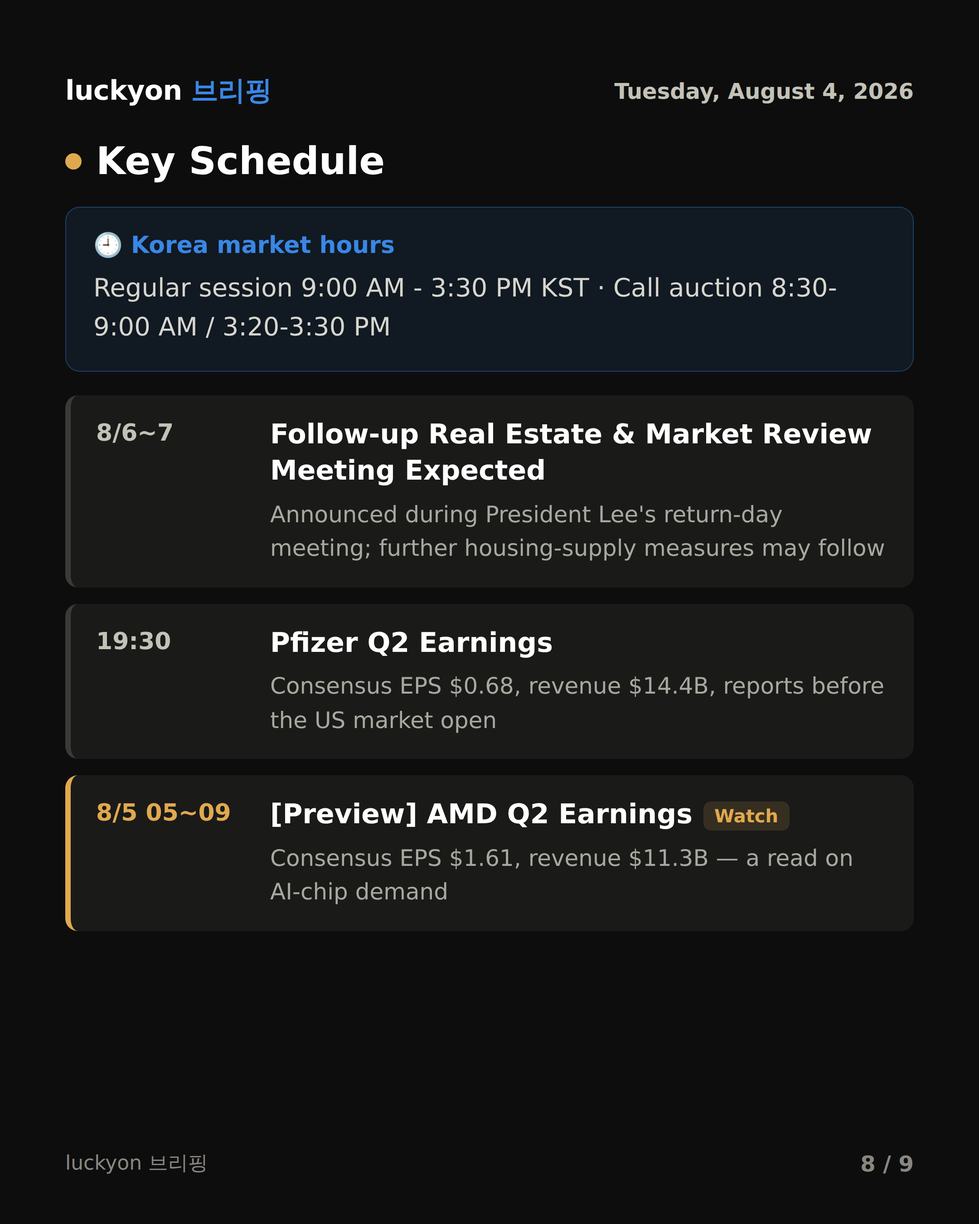
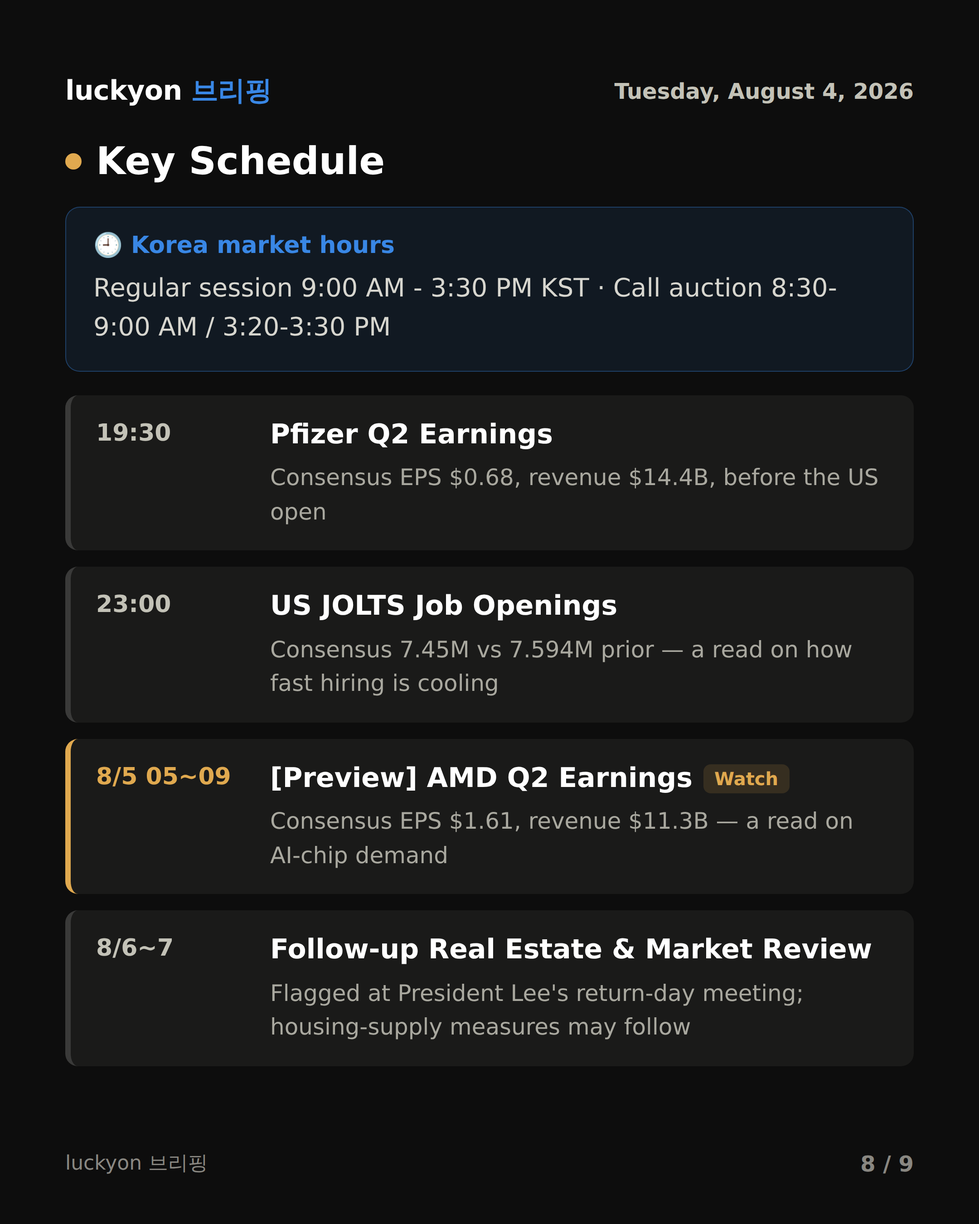
docs: 저녁 세션 대비 절차서 감사 후 불일치 8건 정정
오늘 결정한 내용이 pm 세션에 빠짐없이 적용되도록, 독립 에이전트로
절차서·렌더러·예시 JSON을 교차 감사해 나온 문제를 고친다.

문서 내부 모순
- 3-d 범주 E 가 아직 'sections 3~4장'을 검사하고 있었다. 그대로면
  pm 이 본문 3장만 만들어도 검증을 통과해 9장 결정이 조용히 되돌려진다.
- 범주 A 의 invariant 목록에 stats[].label 이 들어가 있었다. 이건
  번역되는 필드라, 검증 에이전트가 '한글 오염'으로 잡아 label 로
  합치면 렌더러가 못 읽어 라벨이 빈칸이 된다. 목록을 4단계와 일치시키고
  번역 필드는 해당 없음을 명시했다.
- 금통위 항목이 '③ 섹션 첫 항목'을 가리켰는데 ③은 이제 수치 카드라
  문장을 담지 못한다 -> ⑦로 옮겼다.
- 4단계 스키마의 markets 에 value_sub·note_ko/en 이 빠져 있었다.
  그대로 따르면 타일 한 줄 해석이 통째로 사라진다(pm 선물 표기도 note).

pm 세션 대비
- pm 의 ③④⑤가 전부 한국 시장이라 ⑦까지 한국으로 채우면 해외 재료가
  하나도 없게 된다. ⑦을 am·pm 모두 '주요 소식'으로 통일하고(기존 pm
  ⑦은 '오늘의 공시'였다) 공시+아시아·유럽·미 선물을 함께 담는 자리로
  정의했다. 뉴스 검색도 한국/해외 최소 2회로 의무화했다.
- '공시 선별' 항목의 슬롯 번호도 pm ⑤ -> pm ⑦ 로 맞췄다.

코드·문서 동기화
- ROUTINE_OPEN 정규식에 '코스피 개장'·'Kospi Opens' 등이 빠져 있어
  문서 예시와 실제 동작이 달랐다 -> 정규식을 넓혔다.
- render-cards.mjs 헤더 주석이 아직 8장 구성을 설명하고 있었다.
- 검증 에이전트 실행 도구 이름을 세션에 따라 다를 수 있게 일반화했다.

예시 파일: 2026-08-04-am.json 의 schedule 이 3건이라 문서 기준(4~6건)에
못 미쳤다. 오늘 밤 미 JOLTS 를 추가해 4건으로 맞춘다.

diff --git a/ROUTINE_PROMPT.md b/ROUTINE_PROMPT.md
@@ -138,12 +138,14 @@
      | ④ | **섹터별 등락** `type:"bars"` `#e0a94f` — 섹터 ETF 를 0 기준 발산 막대로 | **업종별 등락** `type:"bars"` `#e0a94f` — 주력 15개 업종을 0 기준 발산 막대로 |
      | ⑤ | **실적 · 지표 발표** `type:"stats"` `#3987e5` — 실적·경제지표를 이전치·예상치·실측치 3값으로 (타일 4~6개, `cols:2`) | **거래대금 상위** `type:"rank"` `#3987e5` — 순위 표 + 거래대금 구성비 띠 |
      | ⑥ | **AI · 반도체 기술** (`type` 없음) `#9085e9` — AI 소식 카드 (아래 참고) | **AI · 반도체 기술** (`type` 없음) `#9085e9` — 같음 |
-     | ⑦ | **주요 소식** (`type` 없음) `#5aa469` — 그 시간대에 나온 나머지 주요 소식 (아래 참고) | **오늘의 공시** (`type` 없음) `#5aa469` — DART 원문, 서술이 필요해 글 카드로 |
+     | ⑦ | **주요 소식** (`type` 없음) `#5aa469` — 그 시간대에 나온 나머지 주요 소식 (아래 참고) | **주요 소식** (`type` 없음) `#5aa469` — 같음. pm 은 보통 DART 공시가 주재료이고, 여기에 아시아 마감·유가·환율·미 선물 등을 함께 담는다 |
 
      - **⑥⑦만 글 카드다.** 공시 내용·정책 발표·인물 동정처럼 문장 설명이 필요한 것을 여기에 모은다. ③④⑤는 수치 카드다.
      - 그날 재료가 표의 성격과 안 맞으면 바꿔도 된다 (예: 공시가 압도적인 날은 ⑤를 글 카드로). **다만 수치 카드가 ③④⑤ 세 장 중 최소 두 장은 되어야 한다.**
      - **⑥ AI 카드 (2026-08-04 신설)**: 이 계정은 브랜드에서 "경제와 AI"를 약속하므로 AI 축이 매 회차 한 장 있어야 한다. **주가 나열이 아니라 AI 자체의 소식을 담는다** — 모델·툴 출시와 버전, HBM·GPU·TPU 등 반도체 기술과 표준, AI 인프라·데이터센터 투자, AI 규제·정책. AI 종목 등락만 순위로 늘어놓는 카드는 카드 ③④와 내용이 겹치고 AI에 대해 아무것도 말해주지 않으므로 만들지 않는다(2026-08-04 시안에서 실제로 이 문제가 확인됐다). 뉴스 기반이라 **3-d 검증의 B(정확성)·C(최신성)를 특히 엄격히 적용한다** — 발표 주체를 밝히고(단정 금지), 애널리스트 전망은 기관명을 함께 적고, 보도일을 확인한다.
      - **⑦ 주요 소식 (2026-08-04 변경)**: 제목을 지역으로 못박지 않는다. 예전에는 "한국 · 아시아"였는데, 제목이 곧 수집 범위를 가둬 그 시간대의 다른 좋은 재료를 놓치게 만들었다. **그 세션이 커버하는 시간대에 나온 주요 소식을 지역 구분 없이 모으되, 한국을 우선한다.** (am 이면 전날 21:00 이후 밤사이~오늘 아침, pm 이면 오늘 08:00 이후 — 44행 표의 커버 범위와 같다.) 지표 발표는 이전치·예상치·실측치를 본문에 함께 적는다.
+       - **이 카드를 채우기 전에 반드시 그 시간대의 뉴스를 실제로 검색한다.** 한국 재료만 모아 놓고 "그 시간대엔 이 정도뿐이었다"고 넘어가지 않는다 — 2026-08-04 am 세션이 미국 밤사이 뉴스를 아예 검색하지 않은 채 한국 항목만 넣었고, 그 결과 **그날 밤의 최대 재료(트럼프의 이란 공격 계획 취소)가 브리핑 전체에서 빠졌다.** 유가 5%대 급락과 3대 지수 동반 상승이 모두 거기서 나왔는데 결과만 싣고 원인을 뺀 셈이었다. **최소 두 번은 검색한다** — 한 번은 한국 쪽(`"오늘 증시 마감"`·`"코스피 마감"`), 한 번은 그 세션의 해외 시간대(am 이면 `"간밤 뉴욕증시"`, pm 이면 `"유럽 증시"`·`"미국 선물"`·`"중동"` 등). `mcp__PlayMCP__NaverSearch-search_news` 에 `sort:"date"` 로 훑고, 여러 매체가 반복해 언급하는 그날의 동인을 찾는다. **pm 은 특히 주의한다** — ③④⑤가 모두 한국 시장이라 ⑦까지 한국으로 채우면 브리핑 전체에 해외 재료가 없어진다. 44행 커버 범위표대로 pm 의 ⑦ 은 DART 공시 + 아시아·중동·유럽 마감 + 미 프리마켓/선물을 함께 담는 자리다.
+       - **시장을 움직인 원인은 결과보다 먼저 싣는다.** 시장 카드(②)의 타일이 어떤 사건 때문에 움직였다면, 그 사건이 본문 어딘가에 반드시 있어야 한다. 타일에 결과(유가 ▼5.46%)만 있고 원인(공격 취소 발표)이 어느 카드에도 없으면 독자는 "왜?"에 답을 못 얻는다.
 
    - **섹션 카드 유형 (`type`) — 수치 중심 섹션은 문장 대신 데이터 카드로 그린다.** (2026-08-03 `render-cards.mjs` 개편, `f076f26`) `sections[].type` 을 지정하면 `render-cards.mjs` 가 아래 세 가지 중 하나로 그리고, **`type` 을 아예 안 쓰면 기존 글 카드(`items` 배열, headline/body/src/time)** 로 그린다 — 서술형 섹션(공시 내용, 인물 동정, 정책 발표처럼 문장 설명이 필요한 항목)은 `type` 없이 `items` 그대로 쓰면 된다. 한 세션의 `sections` 5장은 각각 독립적으로 타입을 고른다 — 전부 같은 타입일 필요 없다.
 
@@ -156,7 +158,7 @@
 
      - **`stats` 의 `cols`**: `1` 이면 가로로 긴 행(라벨·부연 왼쪽, 큰 숫자 오른쪽)을 위에서 아래로 쌓고, `2`(기본값)면 2열 격자로 놓는다. **지수 3개처럼 같은 종류를 순서대로 비교시키는 데이터는 `cols: 1`** 이 읽기 좋다(표처럼 세로로 훑힌다). **성격이 다른 지표를 4~6개 늘어놓을 때는 `cols: 2`.** 타일이 하나뿐이면 자동으로 1열이다.
 
-     공통 필드는 `title_ko/en`, `color`, `note_ko/en` (모든 타입 동일). 예: `am` ③ "미국장 기록"의 섹터 등락(XLK/SMH/XLE)은 `bars` 로, `pm` ③ "코스피·코스닥 기록"은 `stats`(+breadth+flows)로, 거래대금 상위는 `rank` 로 그리는 식이다 (2026-08-03-pm.json 예시 참고). **`type` 을 넣었다고 검증(3-d)이나 "계산된 관찰 최소 1건" 요건이 면제되는 것은 아니다** — 카드 형태만 바뀔 뿐 내용 기준은 동일하다.
+     공통 필드는 `title_ko/en`, `color`, `note_ko/en` (모든 타입 동일). 예: `am` ③ "미국장 기록"은 3대 지수를 `stats`(`cols:1`)로, ④ "섹터별 등락"은 섹터 ETF 를 `bars` 로, `pm` ③ "코스피·코스닥 기록"은 `stats`(+breadth+flows)로, ⑤ "거래대금 상위"는 `rank` 로 그린다 (`content/2026-08-04-am.json`·`content/2026-08-03-pm.json` 예시 참고). **`type` 을 넣었다고 검증(3-d)이나 "계산된 관찰 최소 1건" 요건이 면제되는 것은 아니다** — 카드 형태만 바뀔 뿐 내용 기준은 동일하다.
 
    - **공시·실적 조회 경로** (모두 실동작 확인):
 
@@ -171,8 +173,8 @@
 
    - **각 항목은 반드시 조회한 데이터에서 나와야 한다.** 기사에 적힌 숫자를 옮기지 않는다. `src` 에는 언론사가 아니라 **데이터 출처**를 적는다 (예: `KRX`, `DART`, `美 재무부`, `FMP`, `Yahoo Finance`).
    - **사건성 항목은 1차 발표문을 쓴다.** 금통위·FOMC·고용지표·규제 시행 등은 기사 대신 한국은행·연준·통계청·집행위의 **발표 원문**을 근거로 삼는다. 이러면 "누가 주장했는지"가 흐려지지 않는다.
-   - **한국은행 기준금리 결정(금통위)은 절대 놓치지 않는다.** 개최일(연 8회, 통상 1·2·4·5·7·8·10·11월)에 해당 세션이 발행되면 결과(동결/인상/인하, 표결, 배경)를 ③ 섹션 첫 항목으로 반드시 넣는다.
-   - **공시 선별 (pm ⑤)**: DART 는 하루 코스피만 200건이 넘고 대부분 정기·형식 공시다. **시장에 의미 있는 유형만** 고른다 — 단일판매·공급계약체결, 유상증자/전환사채, 자기주식 취득·처분, 최대주주 변경, 대량보유상황보고(5% 룰), 매출액·손익구조 30% 이상 변동, 생산중단, 소송. 정기보고서·기재정정·임원변경 등은 넣지 않는다. 금액이 큰 순, 시총이 큰 기업 순으로 본다.
+   - **한국은행 기준금리 결정(금통위)은 절대 놓치지 않는다.** 개최일(연 8회, 통상 1·2·4·5·7·8·10·11월)에 해당 세션이 발행되면 결과(동결/인상/인하, 표결, 배경)를 ⑦ '주요 소식' 첫 항목으로 반드시 넣는다 (③ 은 수치 카드라 문장 항목을 담지 못한다).
+   - **공시 선별 (pm ⑦)**: DART 는 하루 코스피만 200건이 넘고 대부분 정기·형식 공시다. **시장에 의미 있는 유형만** 고른다 — 단일판매·공급계약체결, 유상증자/전환사채, 자기주식 취득·처분, 최대주주 변경, 대량보유상황보고(5% 룰), 매출액·손익구조 30% 이상 변동, 생산중단, 소송. 정기보고서·기재정정·임원변경 등은 넣지 않는다. 금액이 큰 순, 시총이 큰 기업 순으로 본다.
    - **pm 세션은 먼저 `content/<DATE>-am.json` 을 읽고** 아침에 이미 다룬 항목은 제외한다. (파일이 없으면 `content/` 의 가장 최근 파일을 참고하되, 없는 것 때문에 중단하지 않는다.)
    - 각 항목은 결론부터 1~2문장으로, 한국어와 영어 두 버전을 모두 작성한다.
    - **재료가 부족한 날은 아래 예비 지표를 순서대로 투입한다.** 그날의 1차 재료가 먼저이고, 모자라는 만큼만 위에서부터 가져다 쓴다. 전부 데이터에서 바로 나오는 것들이라 어느 날이든 반드시 채울 수 있다.
@@ -296,11 +298,11 @@
 
    **기록 기반으로 바뀌면서 검증의 성격도 바뀌었다.** 예전에는 "기사 원문과 대조"였지만, 이제 항목 대부분은 우리가 직접 계산한 값이라 **대조할 원문이 없다.** 따라서 검증 에이전트에게 **원본 데이터를 다시 조회해 독립적으로 재계산**시킨다 — "이 값이 맞는지 기사에서 확인해라"가 아니라 "같은 소스에서 다시 뽑아 같은 숫자가 나오는지 확인해라"로 지시한다. 계산이 들어간 항목("N일 연속", "N개월래 최고", "올해 N번째")은 특히 기간·기준을 명시해 재계산시킨다.
 
-   3-b에서 추린 본문 항목 전부를 최종 JSON에 넣기 전에, 반드시 **별도의 검증 에이전트**(`Agent` 도구, `subagent_type: general-purpose` 또는 `Explore`, `run_in_background: false`로 결과를 받고 이어서 진행)를 최소 1개 띄워 아래 **다섯 범주**를 점검시킨다. 뉴스를 고른 세션이 스스로 재검토하면 확증편향으로 놓치기 쉽다 — 실제로 2026-07-21 아침 브리핑에서 2주 전(7/7) 발표된 삼성전자 실적 기사를 "7/21 발표"로 잘못 표기한 채 그대로 발행한 사고가 있었다. (이 검증은 세션당 한 번만 하면 ko·en 카드 모두에 적용된다 — 언어별로 따로 돌릴 필요 없다.) **모든 판정은 "지금"(검증을 실행하는 시점 = 발행 직전) 기준으로 한다** — 리서치 당시엔 맞았어도 검증 시점에 이미 틀려졌다면 fail이다.
+   3-b에서 추린 본문 항목 전부를 최종 JSON에 넣기 전에, 반드시 **별도의 검증 에이전트**(그 세션에 로드된 서브에이전트 실행 도구 — `Agent`/`Task` 등, 범용 타입으로, 결과를 받고 이어서 진행)를 최소 1개 띄워 아래 **다섯 범주**를 점검시킨다. 뉴스를 고른 세션이 스스로 재검토하면 확증편향으로 놓치기 쉽다 — 실제로 2026-07-21 아침 브리핑에서 2주 전(7/7) 발표된 삼성전자 실적 기사를 "7/21 발표"로 잘못 표기한 채 그대로 발행한 사고가 있었다. (이 검증은 세션당 한 번만 하면 ko·en 카드 모두에 적용된다 — 언어별로 따로 돌릴 필요 없다.) **모든 판정은 "지금"(검증을 실행하는 시점 = 발행 직전) 기준으로 한다** — 리서치 당시엔 맞았어도 검증 시점에 이미 틀려졌다면 fail이다.
 
    검증 에이전트 프롬프트에 다음을 통째로 넘긴다: `sections`·`markets`·`schedule`·훅 카드 본문(각 항목의 헤드라인/본문/src/time 초안 + 근거 데이터 출처·조회 조건, 계산이 들어갔다면 그 산식) / **① 이 세션이 조회한 econ-calendar·earnings-calendar 원본 이벤트 목록 전체, ② 완성된 JSON 초안 전체(sections 의 각 `type` 포함), ③ 이 절차서의 3-b 표·3-b-2·3-b-3·market_hours 절.** 아래 다섯 범주로 판정해 pass/fail과 사유를 표로 보고하게 한다 — 각 범주는 매 세션 빠짐없이 확인한다(사실 검증·최신성은 사건성 항목이 없는 날도 markets/summary 문구 등에 적용):
 
-   - **A. 문법·맞춤법 (한국어·영어)** — `markets`의 delta·note, `sections`의 headline·body·note, `summary`/훅 카드, `schedule`, caption 을 포함한 **모든 한국어·영어 텍스트**를 대상으로 한다. 한국어는 맞춤법·띄어쓰기(예: "두달래 최고"(X) → "두 달 내 최고"(O), 시장에서 통용되는 표현 우선: "52주 신고가", "20일 이동평균선 상회"), 영어는 철자·문법·관사·시제 오류를 본다. **언어 무관(invariant) 필드**(`markets[].value/delta/label`, `sections[].stats[].value/delta/label`, `sections[].rows[].value`, `schedule[].time` 등 — 4단계 스키마 설명 참고)는 `_ko`/`_en` 구분 없이 그대로 카드에 박히므로, 여기에 한국어 조사·서술형 어미나 영어 단어가 섞이지 않았는지 **별도로** 확인한다 (실제 사고: `stats[].delta` 에 "예상 상회"라는 한국어를 넣어 영문 카드에도 그대로 노출됨 — 2026-08-04 am).
+   - **A. 문법·맞춤법 (한국어·영어)** — `markets`의 delta·note, `sections`의 headline·body·note, `summary`/훅 카드, `schedule`, caption 을 포함한 **모든 한국어·영어 텍스트**를 대상으로 한다. 한국어는 맞춤법·띄어쓰기(예: "두달래 최고"(X) → "두 달 내 최고"(O), 시장에서 통용되는 표현 우선: "52주 신고가", "20일 이동평균선 상회"), 영어는 철자·문법·관사·시제 오류를 본다. **언어 무관(invariant) 필드**(`markets[].label/value/value_sub/delta`, `sections[].items[].src`/`time`, `sections[].stats[].value`/`delta`, `sections[].rows[].value`, `schedule[].time` — 4단계 스키마 설명의 목록과 같다. **`stats[].label_ko/label_en`·`rows[].name_ko/name_en` 은 번역되는 필드이므로 여기 해당하지 않는다** — 여기에 한국어가 있는 것은 정상이니 '오염'으로 잡아내 `label` 로 합치지 않는다. 합치면 렌더러가 못 읽어 라벨이 빈칸이 된다)는 `_ko`/`_en` 구분 없이 그대로 카드에 박히므로, 여기에 한국어 조사·서술형 어미나 영어 단어가 섞이지 않았는지 **별도로** 확인한다 (실제 사고: `stats[].delta` 에 "예상 상회"라는 한국어를 넣어 영문 카드에도 그대로 노출됨 — 2026-08-04 am).
    - **B. 정확성 (사실 검증)** — 사건성 항목(공시·인물 동정·정책 발표 등)이 있을 때 적용한다.
      1. **사실 일치** — 헤드라인·본문의 핵심 수치·인용구가 원문/원자료와 일치하는지. 수치(가격·%·날짜)는 어림값 말고 원문과 자릿수까지 대조한다.
      2. **단정 금지** — 한쪽 당사자의 주장을 양측 합의로 단정하지 않았는지. (2026-08-03 발행분에서 트럼프의 주장을 근거로 "이란과 호르무즈 합의"라고 단정했으나, 이란은 이를 부인하고 오만을 통한 협의만 진행 중이었다.) 주장 주체를 밝혀 `트럼프 "이란과 합의"` 처럼 쓴다.
@@ -309,7 +311,7 @@
      2. **미래형 표현 검증** — "오늘 ~한다/예정" 류 문장이 검증 시점에도 여전히 사실인지.
      3. **선행 인용 금지** — 카드에 적은 수치가 **발행 시점 이후에야 나온 값**이 아닌지. 진행 중인 사건(유가 급락, 지수 급등락 등)은 시간이 갈수록 수치가 커지는데, 나중 시점의 더 극적인 숫자를 끌어다 쓰면 발행 시점 기준으로는 사실이 아니게 된다. (2026-08-03 am 발행분에서 "국제유가 7% 급락"으로 썼으나 발행 시점 낙폭은 4.6~5.7%였고, 6~7%대는 그날 밤 22시 이후에야 나온 수치였다.)
    - **D. 완전성** — "이 문장이 사실인가"가 아니라 "빠진 게 있는가"를 본다. 이 세션이 조회한 `econ-calendar`/`earnings-calendar` 원본(전체 이벤트 목록)을 카드에 실제로 반영한 항목과 대조해, `impact: HIGH`(또는 `MEDIUM`)인데 빠진 항목이 있으면 지적한다. 특히 **같은 시각·비슷한 성격의 지표가 여러 개일 때 하나만 쓰고 나머지를 빠뜨리는 사고**를 잡는 것이 목적이다 (예: ISM 제조업 PMI만 쓰고 같은 날 S&P 글로벌 제조업 PMI·국채입찰 결과를 빠뜨림 — 2026-08-04 am 사고). 뺀 항목이 있다면 "중요도가 낮아서/공간이 없어서/중복이라서" 등 이유가 있는지 확인한다.
-   - **E. 구조·절차 준수** — 각 섹션의 `type`이 3-b 표(해당 세션 am/pm 기준)와 일치하는지(다르면 그럴 만한 이유가 있는지), 훅 카드가 3-b-2/3-b-3 기준(평일 기본값은 `summary`)을 따랐는지, `schedule`에 평소와 다르지 않은 날의 통상적 개장 알림이 들어있지 않은지(위 market_hours 절 참고), `markets` 10개·`sections` 3~4장·`schedule` 4~6건 등 카드 개수 규칙을 지켰는지 확인한다. "사실 여부"가 아니라 "이 문서가 정한 형식을 따랐는가"이므로, 검증 에이전트에게 이 절차서의 관련 절을 함께 읽게 하고 대조시킨다.
+   - **E. 구조·절차 준수** — 각 섹션의 `type`이 3-b 표(해당 세션 am/pm 기준)와 일치하는지(다르면 그럴 만한 이유가 있는지), 훅 카드가 3-b-2/3-b-3 기준(평일 기본값은 `summary`)을 따랐는지, `schedule`에 평소와 다르지 않은 날의 통상적 개장 알림이 들어있지 않은지(위 market_hours 절 참고), `markets` 10개·`sections` 5장·`schedule` 4~6건 등 카드 개수 규칙을 지켰는지 확인한다. "사실 여부"가 아니라 "이 문서가 정한 형식을 따랐는가"이므로, 검증 에이전트에게 이 절차서의 관련 절을 함께 읽게 하고 대조시킨다.
 
    훅 카드 본문(`summary`, 주말이면 `hook_bull`·`hook_bear`)도 B·C 범주로 함께 검증한다 — 첫 카드에 나가는 문구라 오류 시 임팩트가 가장 크다. 단 B·C 의 검증 범위는 그 문장이 **인용한 사실(수치·날짜·사건)** 에 한정한다 — "AI 수요가 정말 견조한가" 같은 인과 해석의 타당성까지 판정시키지 않는다 (정답이 없는 판정을 시키면 검증 결과 전체가 흐려진다).
 
@@ -323,7 +325,7 @@
 
 4. **콘텐츠 JSON 작성**: `content/<DATE>-<SESSION>.json` 파일을 아래 스키마로 저장한다. (기존 `content/` 의 가장 최근 파일을 예시로 참고하되, 반드시 이번 세션 내용으로 새로 만든다. sections 5장(카드 ③~⑦), markets 10개, schedule 4~6건을 채운다. **`econ`·`ai` 필드는 더 이상 쓰지 않는다** — 렌더러는 하위 호환을 위해 남겨두었을 뿐이다.)
 
-   **주의 — 언어 무관(invariant) 필드**: `markets[].label`/`delta`/`value`, `sections[].items[]` 의 `src`/`time`, `schedule[].time` 은 렌더 스크립트(`scripts/render-cards.mjs`)가 `${LANG}` 분기 없이 **base 필드 이름 그대로**(`m.value`, `m.delta`, `n.src`, `n.time`, `s.time`) 출력한다 — `_ko`/`_en` 접미사가 붙은 필드는 렌더러가 아예 읽지 않으므로, 거기에 값을 넣어도 카드에는 나타나지 않는다(빈 칸이 된다). 이 JSON 하나로 ko·en 카드를 모두 렌더링하므로, 처음 작성할 때부터 두 언어 모두에서 자연스러운 중립 표기로 써야 한다 (예: 라벨은 "S&P 500 Fut" 처럼 영문 약어로, delta 는 "▼6.37%"처럼 기호+숫자 위주로, time 은 "7/16 15:30 KST"처럼, src 는 "KRX", "DART", "FMP" 처럼 데이터 출처 표기 위주로). 한국어 조사·서술형 어미가 꼭 필요한 문구는 이 필드들에 넣지 않는다.
+   **주의 — 언어 무관(invariant) 필드**: `markets[].label`/`value`/`value_sub`/`delta`, `sections[].items[]` 의 `src`/`time`, `sections[].stats[]` 의 `value`/`delta`, `sections[].rows[]` 의 `value`, `schedule[].time` 은 렌더 스크립트(`scripts/render-cards.mjs`)가 `${LANG}` 분기 없이 **base 필드 이름 그대로**(`m.value`, `m.delta`, `n.src`, `n.time`, `s.time`) 출력한다 — `_ko`/`_en` 접미사가 붙은 필드는 렌더러가 아예 읽지 않으므로, 거기에 값을 넣어도 카드에는 나타나지 않는다(빈 칸이 된다). 이 JSON 하나로 ko·en 카드를 모두 렌더링하므로, 처음 작성할 때부터 두 언어 모두에서 자연스러운 중립 표기로 써야 한다 (예: 라벨은 "S&P 500 Fut" 처럼 영문 약어로, delta 는 "▼6.37%"처럼 기호+숫자 위주로, time 은 "7/16 15:30 KST"처럼, src 는 "KRX", "DART", "FMP" 처럼 데이터 출처 표기 위주로). 한국어 조사·서술형 어미가 꼭 필요한 문구는 이 필드들에 넣지 않는다.
 
    ```
    {
@@ -333,7 +335,7 @@
      "summary":{"lines_ko":[...],"lines_en":[...]}, // 훅 카드 본문 — 평일 브리핑은 이것을 쓴다 (3-b-3)
      "hook_bull":{"body_ko","body_en"},        // 주말 세션(sun) 전용 (3-b-2). 평일에는 쓰지 않는다
      "hook_bear":{"body_ko","body_en"},        // 주말 세션(sun) 전용 (3-b-2)
-     "markets":[{"label","value","delta","dir(up|down|flat)"} x10],
+     "markets":[{"label","value","value_sub(선택)","delta","dir(up|down|flat)","note_ko","note_en"} x10],
      "market_note_ko","market_note_en",
      "sections":[                                 // 본문 카드 5장 (3-b). 순서대로 카드 ③④⑤⑥⑦
        {
@@ -361,7 +363,7 @@
      - `am`: 제목 "한국 증시 운영시간", 내용 "정규장 09:00 ~ 15:30 · 동시호가 08:30~09:00 / 15:20~15:30"
      - **휴장일 처리**: 해당 세션의 시장(am=한국, pm=미국)이 공휴일로 휴장이면 브리핑을 건너뛰지 않는다. 대신 `lines` 에 "※ 오늘(M/D)은 ○○로 하루 휴장" 한 줄을 추가하고, `schedule` 첫 항목에 휴장 안내를 `importance: "high"` 로 넣고, 헤드라인·market_note 에도 휴장 사실을 반영한다.
      - `pm`: 제목 "미국 증시 운영시간", 내용 "정규장 22:30 ~ 익일 05:00 (서머타임 기준)" — 11월 초~3월 초(서머타임 해제 기간)에는 "23:30 ~ 익일 06:00" 으로 쓴다. 프리마켓/애프터마켓 시간을 한 줄 더 넣어도 좋다.
-   - **`schedule` 에 통상적인 "정규장 개장" 항목을 넣지 않는다** (`render-cards.mjs` 의 `ROUTINE_OPEN` 필터가 `title_ko`/`title_en` 이 "한국 증시 개장"/"코스피 개장"/"Korea Market Opens"/"Kospi Opens" 등 개장 사실만 알리는 문구와 정확히 일치하면 걸러낸다 — 정확히 일치하지 않으면 걸러지지 않으니 애초에 이런 항목 자체를 넣지 않는 것이 안전하다). 개장 시각은 이미 `market_hours` 박스에 나와 있어 중복이다. **평소와 다른 경우(휴장·조기폐장·임시 개장시간)에만** 알린다 — 이때는 새 필드를 만들지 말고 위 `휴장일 처리`대로 `market_hours.lines_ko/en` 배열에 안내 줄을 추가하고 `schedule` 에도 그 사실을 `importance: "high"` 로 넣는다. "오늘 코스피가 반등할지" 같은 시황 코멘트는 개장 사실이 아니라 **관전 포인트**이므로 schedule 항목이 아니라 헤드라인·`headline_sub`·`summary`(3-b-3)에 담는다.
+   - **`schedule` 에 통상적인 "정규장 개장" 항목을 넣지 않는다** (`render-cards.mjs` 의 `ROUTINE_OPEN` 필터가 `title_ko`/`title_en` 이 "한국 증시 개장"·"코스피 개장"·"미국 증시 정규장 개장"·"Korea Market Opens"·"Kospi Opens"·"US Regular Session Opens" 와 정확히 일치할 때만 걸러낸다 — 정확히 일치하지 않으면 걸러지지 않으니 애초에 이런 항목 자체를 넣지 않는 것이 안전하다). 개장 시각은 이미 `market_hours` 박스에 나와 있어 중복이다. **평소와 다른 경우(휴장·조기폐장·임시 개장시간)에만** 알린다 — 이때는 새 필드를 만들지 말고 위 `휴장일 처리`대로 `market_hours.lines_ko/en` 배열에 안내 줄을 추가하고 `schedule` 에도 그 사실을 `importance: "high"` 로 넣는다. "오늘 코스피가 반등할지" 같은 시황 코멘트는 개장 사실이 아니라 **관전 포인트**이므로 schedule 항목이 아니라 헤드라인·`headline_sub`·`summary`(3-b-3)에 담는다.
    - `next_brief` 고정 문구:
      - `am`: "🌙 다음 브리핑 — 오늘 밤 9시, 미국장 개장 전" / "🌙 Next brief — 9 PM KST, before the US open"
      - `pm`: "☀ 다음 브리핑 — 내일 아침 8시, 미국장 마감 정리" / "☀ Next brief — 8 AM KST, US close wrap-up"
@@ -369,17 +371,21 @@
    - `time` 은 한국시간(KST) 기준으로 표기한다.
    - caption 에는 요약 + 팔로우/저장 유도 문구 + 해시태그 15개 내외를 포함하고, 끝에 다음 브리핑 예고 한 줄(`next_brief` 내용)을 넣는다. pm 캡션에는 "저녁 브리핑" 임을 밝힌다.
    - **문법·맞춤법 검증은 3-d 범주 A 에서 한다** (중복 방지를 위해 여기서 따로 하지 않는다). 3-d 를 통과하지 못한 채 이 단계로 넘어오지 않았는지만 재확인한다.
+   - **뉘앙스가 그날 국면과 맞는지 본다.** 관용구를 반사적으로 쓰면 방향이 거꾸로 된 문장이 나온다. 대표적으로 **유가에 "80달러선을 겨우 지켰다 / 방어했다"** 는 유가가 높아야 좋다는 프레임인데, 고유가를 경계하는 국면에서는 정반대다 (2026-08-04 am 사고). **가격이 오르는 게 좋은지 나쁜지가 대상마다·국면마다 다르다** — 유가·금리·환율은 특히 그렇다. 방어/사수/버텼다 류의 표현을 쓰기 전에 "지금 독자에게 이게 좋은 소식인가"를 한 번 따지고, 애매하면 방향과 수치만 적는다.
+   - **코멘트를 엉뚱한 대상에 붙이지 않는다.** 지수·종목별 한 줄 해석은 **그 대상에 실제로 해당하는 사실**이어야 한다. 예: 아마존은 나스닥 상장사이므로 "아마존 시총 3조달러 돌파가 견인" 은 나스닥 타일에 붙고, S&P 500 타일에는 S&P 자체 사실(섹터 폭 등)을 쓴다 (2026-08-04 am 에 둘이 뒤바뀌어 있었다). 종목이 어느 지수에 속하는지 헷갈리면 확인하고 쓴다.
    - **수치는 정확하게 (근사치 금지)**: markets 의 value 는 일의 자리까지 정확한 수치로 쓴다. 비트코인 "$62K대"(X) → "$64,940"(O), WTI "$79대"(X) → "$79.75"(O). delta 도 "▲ 7%대" 같은 어림 표현 대신 확인된 정확한 %("▲ 1.1%")를 우선하고, 정확한 값을 못 구했을 때만 방향+정성 표현을 쓴다.
-   - **영어판 100% 영어 검증**: `_en` 필드는 물론, 위에서 언급한 언어 무관 공용 필드(markets의 value/delta/label, sections[].items 의 src/time)에도 한글이 한 글자도 남지 않았는지 저장 전에 점검한다. 한국어 표기가 필요해 보이면 그 필드에 넣지 말고 문구 자체를 언어 중립적으로 다시 쓴다. (**예외 — 브랜드 로고·푸터**: 영어 카드에도 상단 로고와 하단 푸터가 `luckyon 브리핑` 으로, 즉 **한글 그대로** 나간다. 이는 버그가 아니라 브랜드 정체성을 위한 의도된 선택이므로 **영어로 바꾸지 않는다.** `render-cards.mjs` 에 하드코딩돼 있고, 이 검증에서 "영어 카드에 한글이 있다"고 잡아내 고치는 일이 없어야 한다.)
+   - **영어판 100% 영어 검증**: `_en` 필드는 물론, 위에서 언급한 언어 무관 공용 필드(markets 의 value/value_sub/delta/label, sections[].items 의 src/time, sections[].stats[] 의 value/delta, sections[].rows[] 의 value, schedule[].time)에도 한글이 한 글자도 남지 않았는지 저장 전에 점검한다. 한국어 표기가 필요해 보이면 그 필드에 넣지 말고 문구 자체를 언어 중립적으로 다시 쓴다. (**예외 — 브랜드 로고·푸터**: 영어 카드에도 상단 로고와 하단 푸터가 `luckyon 브리핑` 으로, 즉 **한글 그대로** 나간다. 이는 버그가 아니라 브랜드 정체성을 위한 의도된 선택이므로 **영어로 바꾸지 않는다.** `render-cards.mjs` 에 하드코딩돼 있고, 이 검증에서 "영어 카드에 한글이 있다"고 잡아내 고치는 일이 없어야 한다.)
 
 5. **카드 이미지 생성**: 같은 JSON으로 한국어·영어 카드를 모두 만든다.
    - `node scripts/render-cards.mjs <DATE> ko <SESSION>`
    - `node scripts/render-cards.mjs <DATE> en <SESSION>`
    - `cards/<DATE>/<SESSION>/ko/`, `cards/<DATE>/<SESSION>/en/` 각각에 card1~9.png (9장: ①훅 ②시장 ③④⑤⑥⑦본문 ⑧일정 ⑨아웃트로)가 생겼는지 확인한다. (인스타 캐러셀 한도는 10장이므로 본문을 더 늘릴 여지는 한 장뿐이다.)
-   - **훅 카드(1번) 확인**: JSON 에 넣은 호재·악재 블록이 그대로 보이는지 확인한다. 한쪽만 넣은 날은
-     그 블록과 `headline_sub` 가 함께 나오는 것이 정상이다. 넣었는데 안 보이거나, 뚜렷한 재료가 있었는데
-     둘 다 없이 `headline_sub` 만 보이면 3-b-2 를 다시 확인한다.
-   - **카드 분량 초과 확인 (매번 필수)**: 특히 영어는 같은 내용도 한국어보다 줄바꿈이 많아져 카드 높이(1350px)를 넘기기 쉽다. 두 언어 모두 3~7번 카드(경제·AI 뉴스, 일정)를 열어 하단 텍스트가 푸터("luckyon 브리핑"·페이지 번호)와 겹치는 항목이 있는지 확인한다. 호재·악재를 넣은 날은 **1번 카드도 함께 확인한다** (헤드라인이 길고 둘 다 있는 날이 가장 빡빡하다). 겹치면 해당 항목의 `body_ko`/`body_en`/`detail_ko`/`detail_en` 등 **그 언어 텍스트만** 줄여 재렌더링한다 (사실관계나 다른 언어 필드는 건드리지 않는다). 겹침이 없어질 때까지 반복한다.
+   - **훅 카드(1번) 확인**: 평일 브리핑은 `summary` 불릿이 보이는 것이 정상이다(3-b-3). 호재·악재 블록이 보인다면 `summary` 를 안 넣었다는 뜻이니 3-b-3 을 다시 확인한다.
+   - **카드 분량 초과 확인 (매번 필수 · 9장 전부, 두 언어 모두 눈으로 본다)**: 특히 영어는 같은 내용도 한국어보다 줄바꿈이 많아져 카드 높이(1350px)를 넘기기 쉽다. **렌더 성공 로그만 보고 넘어가지 말고 이미지를 실제로 열어 본다** — 스크립트는 넘쳐도 오류 없이 성공한다. 하단 텍스트가 푸터("luckyon 브리핑"·페이지 번호)와 겹치는 항목이 있는지 확인한다. 겹치면 해당 항목의 `body_ko`/`body_en`/`detail_ko`/`detail_en` 등 **그 언어 텍스트만** 줄여 재렌더링한다 (사실관계나 다른 언어 필드는 건드리지 않는다). 겹침이 없어질 때까지 반복한다. 자주 넘치는 곳과 대처:
+     - **⑥⑦ 글 카드**: 항목 4~5건이면 본문을 각 **1줄**로 맞춘다. 헤드라인이 2줄로 넘어가면 그것만으로 한 항목이 밀려 마지막 항목의 출처 줄이 푸터에 닿는다.
+     - **③⑤ `stats`**: `cols:2` 에서 타일 3개는 2행이 되고, 라벨·부연이 길면 타일 높이가 제각각이 된다. `cols:1` 은 부연(`sub`)이 2줄로 넘어가지 않게 짧게 쓴다.
+     - **④ `bars`**: 라벨이 길면 잘린다(ellipsis). 한글 8자·영문 15자 안쪽으로 줄인다 (예: "커뮤니케이션 (XLC)" → "통신 (XLC)", "Industrials (XLI)" → "Indu. (XLI)").
+     - **② 시장 카드**: 타일 note 가 3줄이 되면 10칸 격자가 밀린다. note 는 2줄 안쪽으로 쓴다.
 
 6. **고정 브랜치 `claude/live` 에 커밋 & 푸시**: 반드시 아래 순서대로, 항상 같은 브랜치 이름을 재사용한다 (새 브랜치를 매번 만들지 않는다). GitHub Pages가 이 브랜치를 소스로 보고 있으므로, 여기에 푸시해야 이미지가 공개된다. ko·en 카드와 content json을 한 번에 커밋한다.
    ```
